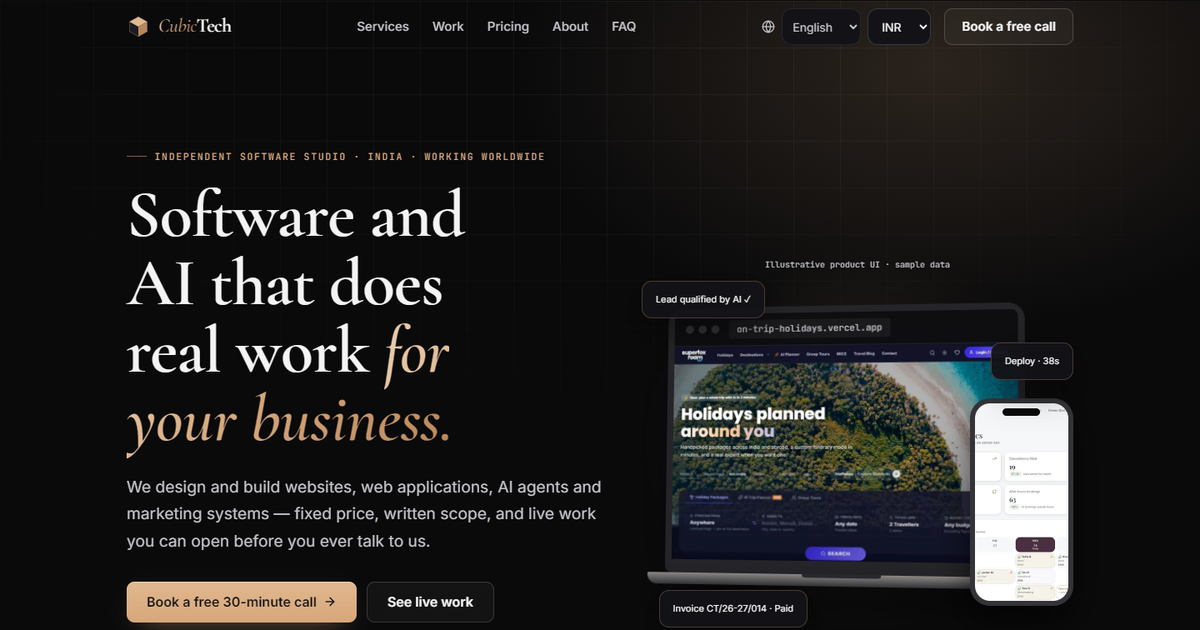
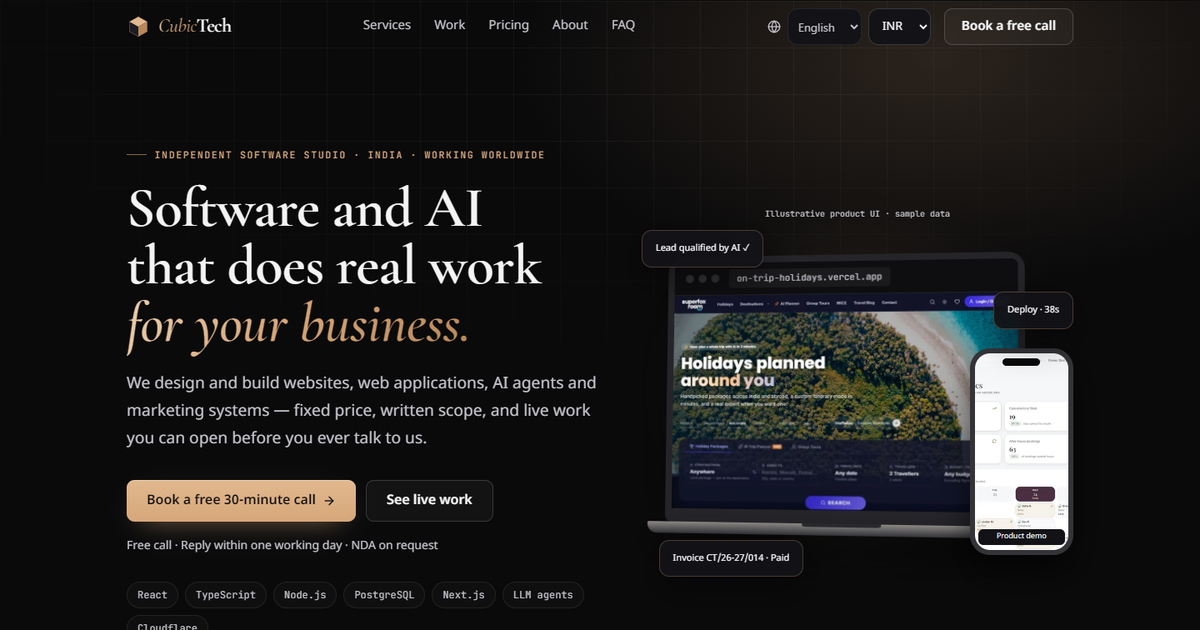
perf: verify accessible visuals and optimize first paint

diff --git a/client/public/fonts/fonts.css b/client/public/fonts/fonts.css
@@ -1,1 +1,5 @@
 @font-face { font-family: 'Cormorant Garamond'; font-style: italic; font-weight: 500; font-display: swap; src: url(/fonts/4ae4c5dabe8f4ecf.woff2) format('woff2'); unicode-range: U+0460-052F, U+1C80-1C8A, U+20B4, U+2DE0-2DFF, U+A640-A69F, U+FE2E-FE2F; } @font-face { font-family: 'Cormorant Garamond'; font-style: italic; font-weight: 500; font-display: swap; src: url(/fonts/954d638259f9bb13.woff2) format('woff2'); unicode-range: U+0301, U+0400-045F, U+0490-0491, U+04B0-04B1, U+2116; } @font-face { font-family: 'Cormorant Garamond'; font-style: italic; font-weight: 500; font-display: swap; src: url(/fonts/4c494e010d00e50c.woff2) format('woff2'); unicode-range: U+0102-0103, U+0110-0111, U+0128-0129, U+0168-0169, U+01A0-01A1, U+01AF-01B0, U+0300-0301, U+0303-0304, U+0308-0309, U+0323, U+0329, U+1EA0-1EF9, U+20AB; } @font-face { font-family: 'Cormorant Garamond'; font-style: italic; font-weight: 500; font-display: swap; src: url(/fonts/8fbaa36df2a892d0.woff2) format('woff2'); unicode-range: U+0100-02BA, U+02BD-02C5, U+02C7-02CC, U+02CE-02D7, U+02DD-02FF, U+0304, U+0308, U+0329, U+1D00-1DBF, U+1E00-1E9F, U+1EF2-1EFF, U+2020, U+20A0-20AB, U+20AD-20C4, U+2113, U+2C60-2C7F, U+A720-A7FF; } @font-face { font-family: 'Cormorant Garamond'; font-style: italic; font-weight: 500; font-display: swap; src: url(/fonts/291655adcb38b6b4.woff2) format('woff2'); unicode-range: U+0000-00FF, U+0131, U+0152-0153, U+02BB-02BC, U+02C6, U+02DA, U+02DC, U+0304, U+0308, U+0329, U+2000-206F, U+20AC, U+2122, U+2191, U+2193, U+2212, U+2215, U+FEFF, U+FFFD; } @font-face { font-family: 'Cormorant Garamond'; font-style: italic; font-weight: 600; font-display: swap; src: url(/fonts/4ae4c5dabe8f4ecf.woff2) format('woff2'); unicode-range: U+0460-052F, U+1C80-1C8A, U+20B4, U+2DE0-2DFF, U+A640-A69F, U+FE2E-FE2F; } @font-face { font-family: 'Cormorant Garamond'; font-style: italic; font-weight: 600; font-display: swap; src: url(/fonts/954d638259f9bb13.woff2) format('woff2'); unicode-range: U+0301, U+0400-045F, U+0490-0491, U+04B0-04B1, U+2116; } @font-face { font-family: 'Cormorant Garamond'; font-style: italic; font-weight: 600; font-display: swap; src: url(/fonts/4c494e010d00e50c.woff2) format('woff2'); unicode-range: U+0102-0103, U+0110-0111, U+0128-0129, U+0168-0169, U+01A0-01A1, U+01AF-01B0, U+0300-0301, U+0303-0304, U+0308-0309, U+0323, U+0329, U+1EA0-1EF9, U+20AB; } @font-face { font-family: 'Cormorant Garamond'; font-style: italic; font-weight: 600; font-display: swap; src: url(/fonts/8fbaa36df2a892d0.woff2) format('woff2'); unicode-range: U+0100-02BA, U+02BD-02C5, U+02C7-02CC, U+02CE-02D7, U+02DD-02FF, U+0304, U+0308, U+0329, U+1D00-1DBF, U+1E00-1E9F, U+1EF2-1EFF, U+2020, U+20A0-20AB, U+20AD-20C4, U+2113, U+2C60-2C7F, U+A720-A7FF; } @font-face { font-family: 'Cormorant Garamond'; font-style: italic; font-weight: 600; font-display: swap; src: url(/fonts/291655adcb38b6b4.woff2) format('woff2'); unicode-range: U+0000-00FF, U+0131, U+0152-0153, U+02BB-02BC, U+02C6, U+02DA, U+02DC, U+0304, U+0308, U+0329, U+2000-206F, U+20AC, U+2122, U+2191, U+2193, U+2212, U+2215, U+FEFF, U+FFFD; } @font-face { font-family: 'Cormorant Garamond'; font-style: normal; font-weight: 500; font-display: swap; src: url(/fonts/c4be89389609ffc2.woff2) format('woff2'); unicode-range: U+0460-052F, U+1C80-1C8A, U+20B4, U+2DE0-2DFF, U+A640-A69F, U+FE2E-FE2F; } @font-face { font-family: 'Cormorant Garamond'; font-style: normal; font-weight: 500; font-display: swap; src: url(/fonts/53563903266482ba.woff2) format('woff2'); unicode-range: U+0301, U+0400-045F, U+0490-0491, U+04B0-04B1, U+2116; } @font-face { font-family: 'Cormorant Garamond'; font-style: normal; font-weight: 500; font-display: swap; src: url(/fonts/c74911618d2d8311.woff2) format('woff2'); unicode-range: U+0102-0103, U+0110-0111, U+0128-0129, U+0168-0169, U+01A0-01A1, U+01AF-01B0, U+0300-0301, U+0303-0304, U+0308-0309, U+0323, U+0329, U+1EA0-1EF9, U+20AB; } @font-face { font-family: 'Cormorant Garamond'; font-style: normal; font-weight: 500; font-display: swap; src: url(/fonts/a55f75e9e7fa133c.woff2) format('woff2'); unicode-range: U+0100-02BA, U+02BD-02C5, U+02C7-02CC, U+02CE-02D7, U+02DD-02FF, U+0304, U+0308, U+0329, U+1D00-1DBF, U+1E00-1E9F, U+1EF2-1EFF, U+2020, U+20A0-20AB, U+20AD-20C4, U+2113, U+2C60-2C7F, U+A720-A7FF; } @font-face { font-family: 'Cormorant Garamond'; font-style: normal; font-weight: 500; font-display: swap; src: url(/fonts/d9ec821052ff94a7.woff2) format('woff2'); unicode-range: U+0000-00FF, U+0131, U+0152-0153, U+02BB-02BC, U+02C6, U+02DA, U+02DC, U+0304, U+0308, U+0329, U+2000-206F, U+20AC, U+2122, U+2191, U+2193, U+2212, U+2215, U+FEFF, U+FFFD; } @font-face { font-family: 'Cormorant Garamond'; font-style: normal; font-weight: 600; font-display: swap; src: url(/fonts/c4be89389609ffc2.woff2) format('woff2'); unicode-range: U+0460-052F, U+1C80-1C8A, U+20B4, U+2DE0-2DFF, U+A640-A69F, U+FE2E-FE2F; } @font-face { font-family: 'Cormorant Garamond'; font-style: normal; font-weight: 600; font-display: swap; src: url(/fonts/53563903266482ba.woff2) format('woff2'); unicode-range: U+0301, U+0400-045F, U+0490-0491, U+04B0-04B1, U+2116; } @font-face { font-family: 'Cormorant Garamond'; font-style: normal; font-weight: 600; font-display: swap; src: url(/fonts/c74911618d2d8311.woff2) format('woff2'); unicode-range: U+0102-0103, U+0110-0111, U+0128-0129, U+0168-0169, U+01A0-01A1, U+01AF-01B0, U+0300-0301, U+0303-0304, U+0308-0309, U+0323, U+0329, U+1EA0-1EF9, U+20AB; } @font-face { font-family: 'Cormorant Garamond'; font-style: normal; font-weight: 600; font-display: swap; src: url(/fonts/a55f75e9e7fa133c.woff2) format('woff2'); unicode-range: U+0100-02BA, U+02BD-02C5, U+02C7-02CC, U+02CE-02D7, U+02DD-02FF, U+0304, U+0308, U+0329, U+1D00-1DBF, U+1E00-1E9F, U+1EF2-1EFF, U+2020, U+20A0-20AB, U+20AD-20C4, U+2113, U+2C60-2C7F, U+A720-A7FF; } @font-face { font-family: 'Cormorant Garamond'; font-style: normal; font-weight: 600; font-display: swap; src: url(/fonts/d9ec821052ff94a7.woff2) format('woff2'); unicode-range: U+0000-00FF, U+0131, U+0152-0153, U+02BB-02BC, U+02C6, U+02DA, U+02DC, U+0304, U+0308, U+0329, U+2000-206F, U+20AC, U+2122, U+2191, U+2193, U+2212, U+2215, U+FEFF, U+FFFD; } @font-face { font-family: 'Cormorant Garamond'; font-style: normal; font-weight: 700; font-display: swap; src: url(/fonts/c4be89389609ffc2.woff2) format('woff2'); unicode-range: U+0460-052F, U+1C80-1C8A, U+20B4, U+2DE0-2DFF, U+A640-A69F, U+FE2E-FE2F; } @font-face { font-family: 'Cormorant Garamond'; font-style: normal; font-weight: 700; font-display: swap; src: url(/fonts/53563903266482ba.woff2) format('woff2'); unicode-range: U+0301, U+0400-045F, U+0490-0491, U+04B0-04B1, U+2116; } @font-face { font-family: 'Cormorant Garamond'; font-style: normal; font-weight: 700; font-display: swap; src: url(/fonts/c74911618d2d8311.woff2) format('woff2'); unicode-range: U+0102-0103, U+0110-0111, U+0128-0129, U+0168-0169, U+01A0-01A1, U+01AF-01B0, U+0300-0301, U+0303-0304, U+0308-0309, U+0323, U+0329, U+1EA0-1EF9, U+20AB; } @font-face { font-family: 'Cormorant Garamond'; font-style: normal; font-weight: 700; font-display: swap; src: url(/fonts/a55f75e9e7fa133c.woff2) format('woff2'); unicode-range: U+0100-02BA, U+02BD-02C5, U+02C7-02CC, U+02CE-02D7, U+02DD-02FF, U+0304, U+0308, U+0329, U+1D00-1DBF, U+1E00-1E9F, U+1EF2-1EFF, U+2020, U+20A0-20AB, U+20AD-20C4, U+2113, U+2C60-2C7F, U+A720-A7FF; } @font-face { font-family: 'Cormorant Garamond'; font-style: normal; font-weight: 700; font-display: swap; src: url(/fonts/d9ec821052ff94a7.woff2) format('woff2'); unicode-range: U+0000-00FF, U+0131, U+0152-0153, U+02BB-02BC, U+02C6, U+02DA, U+02DC, U+0304, U+0308, U+0329, U+2000-206F, U+20AC, U+2122, U+2191, U+2193, U+2212, U+2215, U+FEFF, U+FFFD; } @font-face { font-family: 'IBM Plex Sans Arabic'; font-style: normal; font-weight: 400; font-display: swap; src: url(/fonts/41f1e64ff8dbfd64.woff2) format('woff2'); unicode-range: U+0600-06FF, U+0750-077F, U+0870-0891, U+0897-08E1, U+08E3-08FF, U+200C-200E, U+2010-2011, U+204F, U+2E41, U+FB50-FDFF, U+FE70-FE74, U+FE76-FEFC, U+102E0-102FB, U+10E60-10E7E, U+10EC2-10EC7, U+10EC9-10EEE, U+10EF0-10EFF, U+1EE00-1EE03, U+1EE05-1EE1F, U+1EE21-1EE22, U+1EE24, U+1EE27, U+1EE29-1EE32, U+1EE34-1EE37, U+1EE39, U+1EE3B, U+1EE42, U+1EE47, U+1EE49, U+1EE4B, U+1EE4D-1EE4F, U+1EE51-1EE52, U+1EE54, U+1EE57, U+1EE59, U+1EE5B, U+1EE5D, U+1EE5F, U+1EE61-1EE62, U+1EE64, U+1EE67-1EE6A, U+1EE6C-1EE72, U+1EE74-1EE77, U+1EE79-1EE7C, U+1EE7E, U+1EE80-1EE89, U+1EE8B-1EE9B, U+1EEA1-1EEA3, U+1EEA5-1EEA9, U+1EEAB-1EEBB, U+1EEF0-1EEF1; } @font-face { font-family: 'IBM Plex Sans Arabic'; font-style: normal; font-weight: 400; font-display: swap; src: url(/fonts/3a67cf2b96d068f8.woff2) format('woff2'); unicode-range: U+0460-052F, U+1C80-1C8A, U+20B4, U+2DE0-2DFF, U+A640-A69F, U+FE2E-FE2F; } @font-face { font-family: 'IBM Plex Sans Arabic'; font-style: normal; font-weight: 400; font-display: swap; src: url(/fonts/e613bad269e158ab.woff2) format('woff2'); unicode-range: U+0100-02BA, U+02BD-02C5, U+02C7-02CC, U+02CE-02D7, U+02DD-02FF, U+0304, U+0308, U+0329, U+1D00-1DBF, U+1E00-1E9F, U+1EF2-1EFF, U+2020, U+20A0-20AB, U+20AD-20C4, U+2113, U+2C60-2C7F, U+A720-A7FF; } @font-face { font-family: 'IBM Plex Sans Arabic'; font-style: normal; font-weight: 400; font-display: swap; src: url(/fonts/686b114874710936.woff2) format('woff2'); unicode-range: U+0000-00FF, U+0131, U+0152-0153, U+02BB-02BC, U+02C6, U+02DA, U+02DC, U+0304, U+0308, U+0329, U+2000-206F, U+20AC, U+2122, U+2191, U+2193, U+2212, U+2215, U+FEFF, U+FFFD; } @font-face { font-family: 'IBM Plex Sans Arabic'; font-style: normal; font-weight: 600; font-display: swap; src: url(/fonts/50d246d60cbee4fd.woff2) format('woff2'); unicode-range: U+0600-06FF, U+0750-077F, U+0870-0891, U+0897-08E1, U+08E3-08FF, U+200C-200E, U+2010-2011, U+204F, U+2E41, U+FB50-FDFF, U+FE70-FE74, U+FE76-FEFC, U+102E0-102FB, U+10E60-10E7E, U+10EC2-10EC7, U+10EC9-10EEE, U+10EF0-10EFF, U+1EE00-1EE03, U+1EE05-1EE1F, U+1EE21-1EE22, U+1EE24, U+1EE27, U+1EE29-1EE32, U+1EE34-1EE37, U+1EE39, U+1EE3B, U+1EE42, U+1EE47, U+1EE49, U+1EE4B, U+1EE4D-1EE4F, U+1EE51-1EE52, U+1EE54, U+1EE57, U+1EE59, U+1EE5B, U+1EE5D, U+1EE5F, U+1EE61-1EE62, U+1EE64, U+1EE67-1EE6A, U+1EE6C-1EE72, U+1EE74-1EE77, U+1EE79-1EE7C, U+1EE7E, U+1EE80-1EE89, U+1EE8B-1EE9B, U+1EEA1-1EEA3, U+1EEA5-1EEA9, U+1EEAB-1EEBB, U+1EEF0-1EEF1; } @font-face { font-family: 'IBM Plex Sans Arabic'; font-style: normal; font-weight: 600; font-display: swap; src: url(/fonts/468493a3b9dd5289.woff2) format('woff2'); unicode-range: U+0460-052F, U+1C80-1C8A, U+20B4, U+2DE0-2DFF, U+A640-A69F, U+FE2E-FE2F; } @font-face { font-family: 'IBM Plex Sans Arabic'; font-style: normal; font-weight: 600; font-display: swap; src: url(/fonts/0930d8c09d9997dc.woff2) format('woff2'); unicode-range: U+0100-02BA, U+02BD-02C5, U+02C7-02CC, U+02CE-02D7, U+02DD-02FF, U+0304, U+0308, U+0329, U+1D00-1DBF, U+1E00-1E9F, U+1EF2-1EFF, U+2020, U+20A0-20AB, U+20AD-20C4, U+2113, U+2C60-2C7F, U+A720-A7FF; } @font-face { font-family: 'IBM Plex Sans Arabic'; font-style: normal; font-weight: 600; font-display: swap; src: url(/fonts/632518d8547284aa.woff2) format('woff2'); unicode-range: U+0000-00FF, U+0131, U+0152-0153, U+02BB-02BC, U+02C6, U+02DA, U+02DC, U+0304, U+0308, U+0329, U+2000-206F, U+20AC, U+2122, U+2191, U+2193, U+2212, U+2215, U+FEFF, U+FFFD; } @font-face { font-family: 'IBM Plex Sans Arabic'; font-style: normal; font-weight: 700; font-display: swap; src: url(/fonts/bf43e79904fc533e.woff2) format('woff2'); unicode-range: U+0600-06FF, U+0750-077F, U+0870-0891, U+0897-08E1, U+08E3-08FF, U+200C-200E, U+2010-2011, U+204F, U+2E41, U+FB50-FDFF, U+FE70-FE74, U+FE76-FEFC, U+102E0-102FB, U+10E60-10E7E, U+10EC2-10EC7, U+10EC9-10EEE, U+10EF0-10EFF, U+1EE00-1EE03, U+1EE05-1EE1F, U+1EE21-1EE22, U+1EE24, U+1EE27, U+1EE29-1EE32, U+1EE34-1EE37, U+1EE39, U+1EE3B, U+1EE42, U+1EE47, U+1EE49, U+1EE4B, U+1EE4D-1EE4F, U+1EE51-1EE52, U+1EE54, U+1EE57, U+1EE59, U+1EE5B, U+1EE5D, U+1EE5F, U+1EE61-1EE62, U+1EE64, U+1EE67-1EE6A, U+1EE6C-1EE72, U+1EE74-1EE77, U+1EE79-1EE7C, U+1EE7E, U+1EE80-1EE89, U+1EE8B-1EE9B, U+1EEA1-1EEA3, U+1EEA5-1EEA9, U+1EEAB-1EEBB, U+1EEF0-1EEF1; } @font-face { font-family: 'IBM Plex Sans Arabic'; font-style: normal; font-weight: 700; font-display: swap; src: url(/fonts/ce013ebebfbf3227.woff2) format('woff2'); unicode-range: U+0460-052F, U+1C80-1C8A, U+20B4, U+2DE0-2DFF, U+A640-A69F, U+FE2E-FE2F; } @font-face { font-family: 'IBM Plex Sans Arabic'; font-style: normal; font-weight: 700; font-display: swap; src: url(/fonts/238ad63b7ac80140.woff2) format('woff2'); unicode-range: U+0100-02BA, U+02BD-02C5, U+02C7-02CC, U+02CE-02D7, U+02DD-02FF, U+0304, U+0308, U+0329, U+1D00-1DBF, U+1E00-1E9F, U+1EF2-1EFF, U+2020, U+20A0-20AB, U+20AD-20C4, U+2113, U+2C60-2C7F, U+A720-A7FF; } @font-face { font-family: 'IBM Plex Sans Arabic'; font-style: normal; font-weight: 700; font-display: swap; src: url(/fonts/6f58c7351ca14ecf.woff2) format('woff2'); unicode-range: U+0000-00FF, U+0131, U+0152-0153, U+02BB-02BC, U+02C6, U+02DA, U+02DC, U+0304, U+0308, U+0329, U+2000-206F, U+20AC, U+2122, U+2191, U+2193, U+2212, U+2215, U+FEFF, U+FFFD; } @font-face { font-family: 'Inter'; font-style: normal; font-weight: 400; font-display: swap; src: url(/fonts/95b9ea830580b57e.woff2) format('woff2'); unicode-range: U+0460-052F, U+1C80-1C8A, U+20B4, U+2DE0-2DFF, U+A640-A69F, U+FE2E-FE2F; } @font-face { font-family: 'Inter'; font-style: normal; font-weight: 400; font-display: swap; src: url(/fonts/1e8edb2fc100b7f7.woff2) format('woff2'); unicode-range: U+0301, U+0400-045F, U+0490-0491, U+04B0-04B1, U+2116; } @font-face { font-family: 'Inter'; font-style: normal; font-weight: 400; font-display: swap; src: url(/fonts/6d0a674525fee3dd.woff2) format('woff2'); unicode-range: U+1F00-1FFF; } @font-face { font-family: 'Inter'; font-style: normal; font-weight: 400; font-display: swap; src: url(/fonts/dbc85b0dfbaaa315.woff2) format('woff2'); unicode-range: U+0370-0377, U+037A-037F, U+0384-038A, U+038C, U+038E-03A1, U+03A3-03FF; } @font-face { font-family: 'Inter'; font-style: normal; font-weight: 400; font-display: swap; src: url(/fonts/4c2d4a14f23a8ed5.woff2) format('woff2'); unicode-range: U+0102-0103, U+0110-0111, U+0128-0129, U+0168-0169, U+01A0-01A1, U+01AF-01B0, U+0300-0301, U+0303-0304, U+0308-0309, U+0323, U+0329, U+1EA0-1EF9, U+20AB; } @font-face { font-family: 'Inter'; font-style: normal; font-weight: 400; font-display: swap; src: url(/fonts/a9d11b3ffe7aa537.woff2) format('woff2'); unicode-range: U+0100-02BA, U+02BD-02C5, U+02C7-02CC, U+02CE-02D7, U+02DD-02FF, U+0304, U+0308, U+0329, U+1D00-1DBF, U+1E00-1E9F, U+1EF2-1EFF, U+2020, U+20A0-20AB, U+20AD-20C4, U+2113, U+2C60-2C7F, U+A720-A7FF; } @font-face { font-family: 'Inter'; font-style: normal; font-weight: 400; font-display: swap; src: url(/fonts/e3237528af752eed.woff2) format('woff2'); unicode-range: U+0000-00FF, U+0131, U+0152-0153, U+02BB-02BC, U+02C6, U+02DA, U+02DC, U+0304, U+0308, U+0329, U+2000-206F, U+20AC, U+2122, U+2191, U+2193, U+2212, U+2215, U+FEFF, U+FFFD; } @font-face { font-family: 'Inter'; font-style: normal; font-weight: 500; font-display: swap; src: url(/fonts/95b9ea830580b57e.woff2) format('woff2'); unicode-range: U+0460-052F, U+1C80-1C8A, U+20B4, U+2DE0-2DFF, U+A640-A69F, U+FE2E-FE2F; } @font-face { font-family: 'Inter'; font-style: normal; font-weight: 500; font-display: swap; src: url(/fonts/1e8edb2fc100b7f7.woff2) format('woff2'); unicode-range: U+0301, U+0400-045F, U+0490-0491, U+04B0-04B1, U+2116; } @font-face { font-family: 'Inter'; font-style: normal; font-weight: 500; font-display: swap; src: url(/fonts/6d0a674525fee3dd.woff2) format('woff2'); unicode-range: U+1F00-1FFF; } @font-face { font-family: 'Inter'; font-style: normal; font-weight: 500; font-display: swap; src: url(/fonts/dbc85b0dfbaaa315.woff2) format('woff2'); unicode-range: U+0370-0377, U+037A-037F, U+0384-038A, U+038C, U+038E-03A1, U+03A3-03FF; } @font-face { font-family: 'Inter'; font-style: normal; font-weight: 500; font-display: swap; src: url(/fonts/4c2d4a14f23a8ed5.woff2) format('woff2'); unicode-range: U+0102-0103, U+0110-0111, U+0128-0129, U+0168-0169, U+01A0-01A1, U+01AF-01B0, U+0300-0301, U+0303-0304, U+0308-0309, U+0323, U+0329, U+1EA0-1EF9, U+20AB; } @font-face { font-family: 'Inter'; font-style: normal; font-weight: 500; font-display: swap; src: url(/fonts/a9d11b3ffe7aa537.woff2) format('woff2'); unicode-range: U+0100-02BA, U+02BD-02C5, U+02C7-02CC, U+02CE-02D7, U+02DD-02FF, U+0304, U+0308, U+0329, U+1D00-1DBF, U+1E00-1E9F, U+1EF2-1EFF, U+2020, U+20A0-20AB, U+20AD-20C4, U+2113, U+2C60-2C7F, U+A720-A7FF; } @font-face { font-family: 'Inter'; font-style: normal; font-weight: 500; font-display: swap; src: url(/fonts/e3237528af752eed.woff2) format('woff2'); unicode-range: U+0000-00FF, U+0131, U+0152-0153, U+02BB-02BC, U+02C6, U+02DA, U+02DC, U+0304, U+0308, U+0329, U+2000-206F, U+20AC, U+2122, U+2191, U+2193, U+2212, U+2215, U+FEFF, U+FFFD; } @font-face { font-family: 'Inter'; font-style: normal; font-weight: 600; font-display: swap; src: url(/fonts/95b9ea830580b57e.woff2) format('woff2'); unicode-range: U+0460-052F, U+1C80-1C8A, U+20B4, U+2DE0-2DFF, U+A640-A69F, U+FE2E-FE2F; } @font-face { font-family: 'Inter'; font-style: normal; font-weight: 600; font-display: swap; src: url(/fonts/1e8edb2fc100b7f7.woff2) format('woff2'); unicode-range: U+0301, U+0400-045F, U+0490-0491, U+04B0-04B1, U+2116; } @font-face { font-family: 'Inter'; font-style: normal; font-weight: 600; font-display: swap; src: url(/fonts/6d0a674525fee3dd.woff2) format('woff2'); unicode-range: U+1F00-1FFF; } @font-face { font-family: 'Inter'; font-style: normal; font-weight: 600; font-display: swap; src: url(/fonts/dbc85b0dfbaaa315.woff2) format('woff2'); unicode-range: U+0370-0377, U+037A-037F, U+0384-038A, U+038C, U+038E-03A1, U+03A3-03FF; } @font-face { font-family: 'Inter'; font-style: normal; font-weight: 600; font-display: swap; src: url(/fonts/4c2d4a14f23a8ed5.woff2) format('woff2'); unicode-range: U+0102-0103, U+0110-0111, U+0128-0129, U+0168-0169, U+01A0-01A1, U+01AF-01B0, U+0300-0301, U+0303-0304, U+0308-0309, U+0323, U+0329, U+1EA0-1EF9, U+20AB; } @font-face { font-family: 'Inter'; font-style: normal; font-weight: 600; font-display: swap; src: url(/fonts/a9d11b3ffe7aa537.woff2) format('woff2'); unicode-range: U+0100-02BA, U+02BD-02C5, U+02C7-02CC, U+02CE-02D7, U+02DD-02FF, U+0304, U+0308, U+0329, U+1D00-1DBF, U+1E00-1E9F, U+1EF2-1EFF, U+2020, U+20A0-20AB, U+20AD-20C4, U+2113, U+2C60-2C7F, U+A720-A7FF; } @font-face { font-family: 'Inter'; font-style: normal; font-weight: 600; font-display: swap; src: url(/fonts/e3237528af752eed.woff2) format('woff2'); unicode-range: U+0000-00FF, U+0131, U+0152-0153, U+02BB-02BC, U+02C6, U+02DA, U+02DC, U+0304, U+0308, U+0329, U+2000-206F, U+20AC, U+2122, U+2191, U+2193, U+2212, U+2215, U+FEFF, U+FFFD; } @font-face { font-family: 'Inter'; font-style: normal; font-weight: 700; font-display: swap; src: url(/fonts/95b9ea830580b57e.woff2) format('woff2'); unicode-range: U+0460-052F, U+1C80-1C8A, U+20B4, U+2DE0-2DFF, U+A640-A69F, U+FE2E-FE2F; } @font-face { font-family: 'Inter'; font-style: normal; font-weight: 700; font-display: swap; src: url(/fonts/1e8edb2fc100b7f7.woff2) format('woff2'); unicode-range: U+0301, U+0400-045F, U+0490-0491, U+04B0-04B1, U+2116; } @font-face { font-family: 'Inter'; font-style: normal; font-weight: 700; font-display: swap; src: url(/fonts/6d0a674525fee3dd.woff2) format('woff2'); unicode-range: U+1F00-1FFF; } @font-face { font-family: 'Inter'; font-style: normal; font-weight: 700; font-display: swap; src: url(/fonts/dbc85b0dfbaaa315.woff2) format('woff2'); unicode-range: U+0370-0377, U+037A-037F, U+0384-038A, U+038C, U+038E-03A1, U+03A3-03FF; } @font-face { font-family: 'Inter'; font-style: normal; font-weight: 700; font-display: swap; src: url(/fonts/4c2d4a14f23a8ed5.woff2) format('woff2'); unicode-range: U+0102-0103, U+0110-0111, U+0128-0129, U+0168-0169, U+01A0-01A1, U+01AF-01B0, U+0300-0301, U+0303-0304, U+0308-0309, U+0323, U+0329, U+1EA0-1EF9, U+20AB; } @font-face { font-family: 'Inter'; font-style: normal; font-weight: 700; font-display: swap; src: url(/fonts/a9d11b3ffe7aa537.woff2) format('woff2'); unicode-range: U+0100-02BA, U+02BD-02C5, U+02C7-02CC, U+02CE-02D7, U+02DD-02FF, U+0304, U+0308, U+0329, U+1D00-1DBF, U+1E00-1E9F, U+1EF2-1EFF, U+2020, U+20A0-20AB, U+20AD-20C4, U+2113, U+2C60-2C7F, U+A720-A7FF; } @font-face { font-family: 'Inter'; font-style: normal; font-weight: 700; font-display: swap; src: url(/fonts/e3237528af752eed.woff2) format('woff2'); unicode-range: U+0000-00FF, U+0131, U+0152-0153, U+02BB-02BC, U+02C6, U+02DA, U+02DC, U+0304, U+0308, U+0329, U+2000-206F, U+20AC, U+2122, U+2191, U+2193, U+2212, U+2215, U+FEFF, U+FFFD; } @font-face { font-family: 'JetBrains Mono'; font-style: normal; font-weight: 400; font-display: swap; src: url(/fonts/6b5e37b52d26eeac.woff2) format('woff2'); unicode-range: U+0460-052F, U+1C80-1C8A, U+20B4, U+2DE0-2DFF, U+A640-A69F, U+FE2E-FE2F; } @font-face { font-family: 'JetBrains Mono'; font-style: normal; font-weight: 400; font-display: swap; src: url(/fonts/eb83d8d40af4411f.woff2) format('woff2'); unicode-range: U+0301, U+0400-045F, U+0490-0491, U+04B0-04B1, U+2116; } @font-face { font-family: 'JetBrains Mono'; font-style: normal; font-weight: 400; font-display: swap; src: url(/fonts/99e400330f36ae77.woff2) format('woff2'); unicode-range: U+0370-0377, U+037A-037F, U+0384-038A, U+038C, U+038E-03A1, U+03A3-03FF; } @font-face { font-family: 'JetBrains Mono'; font-style: normal; font-weight: 400; font-display: swap; src: url(/fonts/c4064400db3750ce.woff2) format('woff2'); unicode-range: U+0102-0103, U+0110-0111, U+0128-0129, U+0168-0169, U+01A0-01A1, U+01AF-01B0, U+0300-0301, U+0303-0304, U+0308-0309, U+0323, U+0329, U+1EA0-1EF9, U+20AB; } @font-face { font-family: 'JetBrains Mono'; font-style: normal; font-weight: 400; font-display: swap; src: url(/fonts/b19c2080652a3c2b.woff2) format('woff2'); unicode-range: U+0100-02BA, U+02BD-02C5, U+02C7-02CC, U+02CE-02D7, U+02DD-02FF, U+0304, U+0308, U+0329, U+1D00-1DBF, U+1E00-1E9F, U+1EF2-1EFF, U+2020, U+20A0-20AB, U+20AD-20C4, U+2113, U+2C60-2C7F, U+A720-A7FF; } @font-face { font-family: 'JetBrains Mono'; font-style: normal; font-weight: 400; font-display: swap; src: url(/fonts/cc27b30471250057.woff2) format('woff2'); unicode-range: U+0000-00FF, U+0131, U+0152-0153, U+02BB-02BC, U+02C6, U+02DA, U+02DC, U+0304, U+0308, U+0329, U+2000-206F, U+20AC, U+2122, U+2191, U+2193, U+2212, U+2215, U+FEFF, U+FFFD; } @font-face { font-family: 'JetBrains Mono'; font-style: normal; font-weight: 500; font-display: swap; src: url(/fonts/6b5e37b52d26eeac.woff2) format('woff2'); unicode-range: U+0460-052F, U+1C80-1C8A, U+20B4, U+2DE0-2DFF, U+A640-A69F, U+FE2E-FE2F; } @font-face { font-family: 'JetBrains Mono'; font-style: normal; font-weight: 500; font-display: swap; src: url(/fonts/eb83d8d40af4411f.woff2) format('woff2'); unicode-range: U+0301, U+0400-045F, U+0490-0491, U+04B0-04B1, U+2116; } @font-face { font-family: 'JetBrains Mono'; font-style: normal; font-weight: 500; font-display: swap; src: url(/fonts/99e400330f36ae77.woff2) format('woff2'); unicode-range: U+0370-0377, U+037A-037F, U+0384-038A, U+038C, U+038E-03A1, U+03A3-03FF; } @font-face { font-family: 'JetBrains Mono'; font-style: normal; font-weight: 500; font-display: swap; src: url(/fonts/c4064400db3750ce.woff2) format('woff2'); unicode-range: U+0102-0103, U+0110-0111, U+0128-0129, U+0168-0169, U+01A0-01A1, U+01AF-01B0, U+0300-0301, U+0303-0304, U+0308-0309, U+0323, U+0329, U+1EA0-1EF9, U+20AB; } @font-face { font-family: 'JetBrains Mono'; font-style: normal; font-weight: 500; font-display: swap; src: url(/fonts/b19c2080652a3c2b.woff2) format('woff2'); unicode-range: U+0100-02BA, U+02BD-02C5, U+02C7-02CC, U+02CE-02D7, U+02DD-02FF, U+0304, U+0308, U+0329, U+1D00-1DBF, U+1E00-1E9F, U+1EF2-1EFF, U+2020, U+20A0-20AB, U+20AD-20C4, U+2113, U+2C60-2C7F, U+A720-A7FF; } @font-face { font-family: 'JetBrains Mono'; font-style: normal; font-weight: 500; font-display: swap; src: url(/fonts/cc27b30471250057.woff2) format('woff2'); unicode-range: U+0000-00FF, U+0131, U+0152-0153, U+02BB-02BC, U+02C6, U+02DA, U+02DC, U+0304, U+0308, U+0329, U+2000-206F, U+20AC, U+2122, U+2191, U+2193, U+2212, U+2215, U+FEFF, U+FFFD; } @font-face { font-family: 'JetBrains Mono'; font-style: normal; font-weight: 600; font-display: swap; src: url(/fonts/6b5e37b52d26eeac.woff2) format('woff2'); unicode-range: U+0460-052F, U+1C80-1C8A, U+20B4, U+2DE0-2DFF, U+A640-A69F, U+FE2E-FE2F; } @font-face { font-family: 'JetBrains Mono'; font-style: normal; font-weight: 600; font-display: swap; src: url(/fonts/eb83d8d40af4411f.woff2) format('woff2'); unicode-range: U+0301, U+0400-045F, U+0490-0491, U+04B0-04B1, U+2116; } @font-face { font-family: 'JetBrains Mono'; font-style: normal; font-weight: 600; font-display: swap; src: url(/fonts/99e400330f36ae77.woff2) format('woff2'); unicode-range: U+0370-0377, U+037A-037F, U+0384-038A, U+038C, U+038E-03A1, U+03A3-03FF; } @font-face { font-family: 'JetBrains Mono'; font-style: normal; font-weight: 600; font-display: swap; src: url(/fonts/c4064400db3750ce.woff2) format('woff2'); unicode-range: U+0102-0103, U+0110-0111, U+0128-0129, U+0168-0169, U+01A0-01A1, U+01AF-01B0, U+0300-0301, U+0303-0304, U+0308-0309, U+0323, U+0329, U+1EA0-1EF9, U+20AB; } @font-face { font-family: 'JetBrains Mono'; font-style: normal; font-weight: 600; font-display: swap; src: url(/fonts/b19c2080652a3c2b.woff2) format('woff2'); unicode-range: U+0100-02BA, U+02BD-02C5, U+02C7-02CC, U+02CE-02D7, U+02DD-02FF, U+0304, U+0308, U+0329, U+1D00-1DBF, U+1E00-1E9F, U+1EF2-1EFF, U+2020, U+20A0-20AB, U+20AD-20C4, U+2113, U+2C60-2C7F, U+A720-A7FF; } @font-face { font-family: 'JetBrains Mono'; font-style: normal; font-weight: 600; font-display: swap; src: url(/fonts/cc27b30471250057.woff2) format('woff2'); unicode-range: U+0000-00FF, U+0131, U+0152-0153, U+02BB-02BC, U+02C6, U+02DA, U+02DC, U+0304, U+0308, U+0329, U+2000-206F, U+20AC, U+2122, U+2191, U+2193, U+2212, U+2215, U+FEFF, U+FFFD; } @font-face { font-family: 'Noto Sans Devanagari'; font-style: normal; font-weight: 400; font-stretch: 100%; font-display: swap; src: url(/fonts/32aa484b7f2341a2.woff2) format('woff2'); unicode-range: U+0900-097F, U+1CD0-1CF4, U+1CF7-1CF9, U+200C-200D, U+20A8, U+20B9, U+20F0, U+25CC, U+A830-A839, U+A8E0-A8FF, U+11B00-11B0A; } @font-face { font-family: 'Noto Sans Devanagari'; font-style: normal; font-weight: 400; font-stretch: 100%; font-display: swap; src: url(/fonts/e8febb32684ab300.woff2) format('woff2'); unicode-range: U+0100-02BA, U+02BD-02C5, U+02C7-02CC, U+02CE-02D7, U+02DD-02FF, U+0304, U+0308, U+0329, U+1D00-1DBF, U+1E00-1E9F, U+1EF2-1EFF, U+2020, U+20A0-20AB, U+20AD-20C4, U+2113, U+2C60-2C7F, U+A720-A7FF; } @font-face { font-family: 'Noto Sans Devanagari'; font-style: normal; font-weight: 400; font-stretch: 100%; font-display: swap; src: url(/fonts/099dc5879c36abf8.woff2) format('woff2'); unicode-range: U+0000-00FF, U+0131, U+0152-0153, U+02BB-02BC, U+02C6, U+02DA, U+02DC, U+0304, U+0308, U+0329, U+2000-206F, U+20AC, U+2122, U+2191, U+2193, U+2212, U+2215, U+FEFF, U+FFFD; } @font-face { font-family: 'Noto Sans Devanagari'; font-style: normal; font-weight: 600; font-stretch: 100%; font-display: swap; src: url(/fonts/32aa484b7f2341a2.woff2) format('woff2'); unicode-range: U+0900-097F, U+1CD0-1CF4, U+1CF7-1CF9, U+200C-200D, U+20A8, U+20B9, U+20F0, U+25CC, U+A830-A839, U+A8E0-A8FF, U+11B00-11B0A; } @font-face { font-family: 'Noto Sans Devanagari'; font-style: normal; font-weight: 600; font-stretch: 100%; font-display: swap; src: url(/fonts/e8febb32684ab300.woff2) format('woff2'); unicode-range: U+0100-02BA, U+02BD-02C5, U+02C7-02CC, U+02CE-02D7, U+02DD-02FF, U+0304, U+0308, U+0329, U+1D00-1DBF, U+1E00-1E9F, U+1EF2-1EFF, U+2020, U+20A0-20AB, U+20AD-20C4, U+2113, U+2C60-2C7F, U+A720-A7FF; } @font-face { font-family: 'Noto Sans Devanagari'; font-style: normal; font-weight: 600; font-stretch: 100%; font-display: swap; src: url(/fonts/099dc5879c36abf8.woff2) format('woff2'); unicode-range: U+0000-00FF, U+0131, U+0152-0153, U+02BB-02BC, U+02C6, U+02DA, U+02DC, U+0304, U+0308, U+0329, U+2000-206F, U+20AC, U+2122, U+2191, U+2193, U+2212, U+2215, U+FEFF, U+FFFD; } @font-face { font-family: 'Noto Sans Devanagari'; font-style: normal; font-weight: 700; font-stretch: 100%; font-display: swap; src: url(/fonts/32aa484b7f2341a2.woff2) format('woff2'); unicode-range: U+0900-097F, U+1CD0-1CF4, U+1CF7-1CF9, U+200C-200D, U+20A8, U+20B9, U+20F0, U+25CC, U+A830-A839, U+A8E0-A8FF, U+11B00-11B0A; } @font-face { font-family: 'Noto Sans Devanagari'; font-style: normal; font-weight: 700; font-stretch: 100%; font-display: swap; src: url(/fonts/e8febb32684ab300.woff2) format('woff2'); unicode-range: U+0100-02BA, U+02BD-02C5, U+02C7-02CC, U+02CE-02D7, U+02DD-02FF, U+0304, U+0308, U+0329, U+1D00-1DBF, U+1E00-1E9F, U+1EF2-1EFF, U+2020, U+20A0-20AB, U+20AD-20C4, U+2113, U+2C60-2C7F, U+A720-A7FF; } @font-face { font-family: 'Noto Sans Devanagari'; font-style: normal; font-weight: 700; font-stretch: 100%; font-display: swap; src: url(/fonts/099dc5879c36abf8.woff2) format('woff2'); unicode-range: U+0000-00FF, U+0131, U+0152-0153, U+02BB-02BC, U+02C6, U+02DA, U+02DC, U+0304, U+0308, U+0329, U+2000-206F, U+20AC, U+2122, U+2191, U+2193, U+2212, U+2215, U+FEFF, U+FFFD; }
+
+@font-face { font-family: 'Inter'; font-style: normal; font-weight: 400 700; font-display: swap; src: url(/fonts/inter-rupee-2d8b0beb55.woff2) format('woff2'); unicode-range: U+20b9; unicode-range: U+20B9; }
+
+@font-face { font-family: 'Cormorant Garamond'; font-style: italic; font-weight: 600; font-display: swap; src: url(/fonts/display-cf5f5ed194.woff2) format('woff2'); unicode-range: U+20, U+22, U+25-29, U+2b-5d, U+61-7e, U+ab, U+b7, U+bb, U+c0-c2, U+c4, U+c7-cf, U+d2-d4, U+d6, U+d9-dd, U+df-e2, U+e4, U+e7-ef, U+f2-f4, U+f6, U+f9-fd, U+ff, U+106-109, U+11c-11d, U+122-125, U+134-137, U+139-13c, U+143-146, U+154-157, U+15a-15f, U+162-163, U+174-17a, U+1d7-1d8, U+1db-1dc, U+1f4-1f5, U+1f8-1f9, U+228-229, U+300-302, U+308, U+327, U+1e08-1e09, U+1e10-1e11, U+1e26-1e29, U+1e2e-1e31, U+1e3e-1e3f, U+1e54-1e55, U+1e80-1e85, U+1e8c-1e8d, U+1e90-1e91, U+1e97, U+1ea4-1ea7, U+1ebe-1ec1, U+1ed0-1ed3, U+1ef2-1ef3, U+2013-2014, U+2019, U+201c-201d, U+2026; unicode-range: U+0020,U+0022,U+0025,U+0026,U+0027,U+0028,U+0029,U+002B,U+002C,U+002D,U+002E,U+002F,U+0030,U+0031,U+0032,U+0033,U+0034,U+0035,U+0036,U+0037,U+0038,U+0039,U+003A,U+003B,U+003C,U+003D,U+003E,U+003F,U+0040,U+0041,U+0042,U+0043,U+0044,U+0045,U+0046,U+0047,U+0048,U+0049,U+004A,U+004B,U+004C,U+004D,U+004E,U+004F,U+0050,U+0051,U+0052,U+0053,U+0054,U+0055,U+0056,U+0057,U+0058,U+0059,U+005A,U+005B,U+005C,U+005D,U+0061,U+0062,U+0063,U+0064,U+0065,U+0066,U+0067,U+0068,U+0069,U+006A,U+006B,U+006C,U+006D,U+006E,U+006F,U+0070,U+0071,U+0072,U+0073,U+0074,U+0075,U+0076,U+0077,U+0078,U+0079,U+007A,U+007B,U+007C,U+007D,U+007E,U+00AB,U+00B7,U+00BB,U+00C0,U+00C4,U+00C9,U+00D6,U+00DC,U+00DF,U+00E0,U+00E2,U+00E4,U+00E7,U+00E8,U+00E9,U+00EA,U+00EE,U+00F4,U+00F6,U+00F9,U+00FB,U+00FC,U+2013,U+2014,U+2019,U+201C,U+201D,U+2026; } @font-face { font-family: 'Cormorant Garamond'; font-style: normal; font-weight: 600; font-display: swap; src: url(/fonts/display-25b406678a.woff2) format('woff2'); unicode-range: U+20, U+22, U+25-29, U+2b-5d, U+61-7e, U+ab, U+b7, U+bb, U+c0-c2, U+c4, U+c7-cf, U+d2-d4, U+d6, U+d9-dd, U+df-e2, U+e4, U+e7-ef, U+f2-f4, U+f6, U+f9-fd, U+ff, U+106-109, U+11c-11d, U+122-125, U+134-137, U+139-13c, U+143-146, U+154-157, U+15a-15f, U+162-163, U+174-17a, U+1d7-1d8, U+1db-1dc, U+1f4-1f5, U+1f8-1f9, U+228-229, U+300-302, U+308, U+327, U+1e08-1e09, U+1e10-1e11, U+1e26-1e29, U+1e2e-1e31, U+1e3e-1e3f, U+1e54-1e55, U+1e80-1e85, U+1e8c-1e8d, U+1e90-1e91, U+1e97, U+1ea4-1ea7, U+1ebe-1ec1, U+1ed0-1ed3, U+1ef2-1ef3, U+2013-2014, U+2019, U+201c-201d, U+2026; unicode-range: U+0020,U+0022,U+0025,U+0026,U+0027,U+0028,U+0029,U+002B,U+002C,U+002D,U+002E,U+002F,U+0030,U+0031,U+0032,U+0033,U+0034,U+0035,U+0036,U+0037,U+0038,U+0039,U+003A,U+003B,U+003C,U+003D,U+003E,U+003F,U+0040,U+0041,U+0042,U+0043,U+0044,U+0045,U+0046,U+0047,U+0048,U+0049,U+004A,U+004B,U+004C,U+004D,U+004E,U+004F,U+0050,U+0051,U+0052,U+0053,U+0054,U+0055,U+0056,U+0057,U+0058,U+0059,U+005A,U+005B,U+005C,U+005D,U+0061,U+0062,U+0063,U+0064,U+0065,U+0066,U+0067,U+0068,U+0069,U+006A,U+006B,U+006C,U+006D,U+006E,U+006F,U+0070,U+0071,U+0072,U+0073,U+0074,U+0075,U+0076,U+0077,U+0078,U+0079,U+007A,U+007B,U+007C,U+007D,U+007E,U+00AB,U+00B7,U+00BB,U+00C0,U+00C4,U+00C9,U+00D6,U+00DC,U+00DF,U+00E0,U+00E2,U+00E4,U+00E7,U+00E8,U+00E9,U+00EA,U+00EE,U+00F4,U+00F6,U+00F9,U+00FB,U+00FC,U+2013,U+2014,U+2019,U+201C,U+201D,U+2026; }

diff --git a/client/src/styles/visuals.css b/client/src/styles/visuals.css
@@ -89,9 +89,29 @@
 .visual-footer::before { content:""; position:absolute; top:0; inset-inline:0; height:1px; background:linear-gradient(90deg,transparent,var(--brand),transparent); }
 .footer-watermark { position:absolute; bottom:40px; inset-inline:0; text-align:center; font-family:var(--font-display); font-size:clamp(80px,20vw,280px); line-height:1; color:var(--t-primary); opacity:.035; pointer-events:none; }
 @media(prefers-reduced-motion:no-preference) {
- .is-revealed { animation:visual-arrive .65s var(--ease-out) both; animation-delay:var(--reveal-delay,0ms); }
- .process-steps.is-revealed > li::after { animation:timeline-grow 1s ease both; transform-origin:0 50%; }
- :dir(rtl) .process-steps.is-revealed > li::after { transform-origin:100% 50%; }
+ .visual-ready .card, .visual-ready .visual-project { animation:visual-arrive .65s var(--ease-out) both; animation-delay:var(--reveal-delay,0ms); }
+ .visual-ready .process-steps > li::after { animation:timeline-grow 1s ease both; transform-origin:0 50%; }
+ :dir(rtl) .visual-ready .process-steps > li::after { transform-origin:100% 50%; }
 }
 @keyframes visual-arrive { from { opacity:.85; transform:translateY(16px); } to { opacity:1; transform:none; } }
 @keyframes timeline-grow { from { transform:scaleX(0); } to { transform:scaleX(1); } }
+
+.tech-window { direction:ltr; }
+.service-illustration > path:nth-of-type(2n) { stroke:var(--t-primary); }
+.home-hero .display-1 { font-size:clamp(2.6rem,4.7vw,4.3rem); }
+
+.public-site .process-steps > li::after { background:linear-gradient(90deg,var(--brand),var(--brand-line)); }
+.footer-watermark { width:100%; height:auto; }
+
+.phone-kind { position:absolute; bottom:6px; inset-inline:4px; padding:4px; text-align:center; font-size:9px; line-height:1.3; border-radius:6px; color:var(--t-primary); background:var(--surface); }
+
+.visual-footer { content-visibility:auto; contain-intrinsic-size:auto 40rem; }
+.footer-watermark { font-family:"Cormorant Garamond",Georgia,serif; }
+
+/* Reserve the mobile banner before fonts load, preventing a late LCP resize. */
+@media(max-width:1023px) { .banner-hero { min-height:48rem; } }
+
+.visual-ready .card:nth-child(3n+2) { animation-delay:80ms; }
+.visual-ready .card:nth-child(3n+3) { animation-delay:160ms; }
+
+.footer-watermark { font-weight:600; }

diff --git a/client/src/main.tsx b/client/src/main.tsx
@@ -1,17 +1,26 @@
-import { createRoot, hydrateRoot } from "react-dom/client";
-import App from "./App";
-import { loadDict, LOCALE_META, localeFromPath } from "./i18n";
+import { LOCALE_META, localeFromPath } from "./i18n/config";
 import "./index.css";
 import "./styles/visuals.css";
 
 const locale = localeFromPath(window.location.pathname);
+const prerenderLocale = document.documentElement.lang;
 document.documentElement.lang = locale;
 document.documentElement.dir = LOCALE_META[locale].dir;
+const root = document.getElementById("root")!;
 
-// Attach to prerendered public content without replacing it or replaying the hero.
-loadDict(locale).then((dict) => {
-  const root = document.getElementById("root")!;
-  const app = <App locale={locale} dict={dict} />;
-  if (root.hasChildNodes()) hydrateRoot(root, app);
+async function bootstrap() {
+  const [{ createElement }, { hydrateRoot, createRoot }, { default: App }, { loadDict }] = await Promise.all([
+    import("react"), import("react-dom/client"), import("./App"), import("./i18n"),
+  ]);
+  const dict = await loadDict(locale);
+  const app = createElement(App, { locale, dict });
+  if (root.hasChildNodes() && prerenderLocale === locale) hydrateRoot(root, app);
   else createRoot(root).render(app);
-});
+}
+
+// Public HTML already works without JavaScript. Finish its first paint before
+// loading enhancements; empty workspace shells still bootstrap immediately.
+if (!root.hasChildNodes() || document.readyState === "complete") void bootstrap();
+else window.addEventListener("load", () => {
+  window.requestAnimationFrame(() => window.setTimeout(() => void bootstrap(), 0));
+}, { once: true });

diff --git a/client/src/components/visuals/Banner.tsx b/client/src/components/visuals/Banner.tsx
@@ -1,9 +1,7 @@
 import { useLocation } from "wouter";
-const pages: Record<string, string> = { services: "architecture", work: "desk", pricing: "geometry", about: "studio", faq: "light-lines", contact: "city", terms: "workspace", privacy: "workspace", cookies: "workspace" };
-const services: Record<string, string> = { "web-development": "architecture", "web-applications": "servers", "ai-solutions": "circuit", "digital-marketing": "earth", "ui-ux-design": "workspace", maintenance: "servers" };
+import { bannerForPath } from "@/data/banners";
 export function Banner({ name, hero = true }: { name?: string; hero?: boolean }) {
   const [location] = useLocation();
-  const segments = location.split("/").filter(Boolean);
-  const image = name ?? services[segments[1]] ?? pages[segments[0]] ?? "geometry";
-  return <div className="banner-art" aria-hidden="true"><img src={`/images/banners/${image}.webp`} srcSet={`/images/banners/${image}-960.webp 960w, /images/banners/${image}.webp 1920w`} sizes="100vw" width="1920" height="1080" alt="" loading={hero ? "eager" : "lazy"} fetchPriority={hero ? "high" : undefined} /><div className="banner-shade" /></div>;
+  const image = name ?? bannerForPath(location);
+  return <div className="banner-art" aria-hidden="true"><img src={`/images/banners/${image}.webp`} srcSet={`/images/banners/${image}-960.webp 960w, /images/banners/${image}.webp 1920w`} sizes="100vw" width="1920" height="1080" decoding={hero ? "sync" : "async"} alt="" loading={hero ? "eager" : "lazy"} fetchPriority={hero ? "high" : undefined} /><div className="banner-shade" /></div>;
 }

diff --git a/script/prerender.ts b/script/prerender.ts
@@ -49,18 +49,28 @@ async function main() {
 
   const entry = (await import(pathToFileURL(path.join(serverDir, "entry-server.js")).href)) as ServerEntry;
   const template = await fs.readFile(path.join(outDir, "index.html"), "utf8");
+  // Public pages ship their small compressed stylesheet with their HTML: no
+  // render-blocking CSS round trip. Workspace shells retain normal CSS links.
+  let publicTemplate = template;
+  for (const match of template.matchAll(/<link\b[^>]*rel="stylesheet"[^>]*>/g)) {
+    const href = match[0].match(/href="([^"]+)"/)?.[1];
+    if (!href?.startsWith("/") || !href.endsWith(".css")) continue;
+    const css = await fs.readFile(path.join(outDir, href.slice(1)), "utf8");
+    publicTemplate = publicTemplate.replace(match[0], `<style data-stylesheet="${href}">${css}</style>`);
+  }
+
 
   let count = 0;
   for (const locale of entry.LOCALES) {
     for (const pagePath of entry.PUBLIC_PATHS) {
       const page = await entry.render(pagePath, locale);
-      await writeFile(fileFor(pagePath, locale), fillTemplate(template, page));
+      await writeFile(fileFor(pagePath, locale), fillTemplate(publicTemplate, page));
       count += 1;
     }
   }
 
   // 404 page (Cloudflare serves 404.html for unknown paths, with a 404 status).
-  await writeFile("404.html", fillTemplate(template, await entry.render("/__not-found__", "en")));
+  await writeFile("404.html", fillTemplate(publicTemplate, await entry.render("/__not-found__", "en")));
 
   // Admin and client portal: client-rendered, never indexed.
   const appShell = template

diff --git a/client/src/components/visuals/Devices.tsx b/client/src/components/visuals/Devices.tsx
@@ -7,10 +7,11 @@ export function Laptop({ project }: { project: Project }) {
 }
 export function DeviceComposition({ compact = false, project = projects[0] }: { compact?: boolean; project?: Project }) {
   const { t } = useI18n();
+  const phone = compact ? project : projects[1];
   return <div className={`device-composition ${compact ? "device-compact" : ""}`}>
     <div className="device-glow" aria-hidden="true" />
     <Laptop project={project} />
-    <div className="device-phone"><div className="phone-camera" aria-hidden="true"/><img src={projects[1].image.replace(".webp", "-640.webp")} alt={`${projects[1].name} — ${t.common.accessibility.screenshot}`} width="640" height="400" loading="lazy" /></div>
+    <div className="device-phone"><div className="phone-camera" aria-hidden="true"/><img src={phone.image.replace(".webp", "-640.webp")} alt={`${phone.name} — ${t.common.accessibility.screenshot}`} width="640" height={phone.slug === "superfox-roam" ? 347 : 400} loading="lazy" /><span className="phone-kind">{t.common.kinds[phone.kind]}</span></div>
     {!compact && <><p className="device-sample">{t.visuals.sample}</p><div className="floating-ui float-one">{t.visuals.qualified}</div><div className="floating-ui float-two">{t.visuals.invoice}</div><div className="floating-ui float-three">{t.visuals.deploy}</div></>}
   </div>;
 }

diff --git a/client/src/entry-server.tsx b/client/src/entry-server.tsx
@@ -1,3 +1,4 @@
+import { bannerForPath } from "./data/banners";
 import { renderToString } from "react-dom/server";
 import App from "./App";
 import { loadDict, type Locale } from "./i18n";
@@ -9,7 +10,10 @@ import { LOCALE_META, localizedPath } from "./i18n/config";
 export async function render(path: string, locale: Locale) {
   const dict = await loadDict(locale);
   const html = renderToString(<App locale={locale} dict={dict} ssrPath={localizedPath(path, locale)} />);
-  const head = headHtml(metaFor(path, locale, dict));
+  const image = bannerForPath(path);
+  const preload = path === "/" ? "" : `<link rel="preload" as="image" href="/images/banners/${image}.webp" imagesrcset="/images/banners/${image}-960.webp 960w, /images/banners/${image}.webp 1920w" imagesizes="100vw" fetchpriority="high" />`;
+  const fontPreload = ["en", "de", "fr"].includes(locale) ? '<link rel="preload" as="font" type="font/woff2" crossorigin href="/fonts/display-cf5f5ed194.woff2" /><link rel="preload" as="font" type="font/woff2" crossorigin href="/fonts/display-25b406678a.woff2" />' : "";
+  const head = fontPreload + preload + headHtml(metaFor(path, locale, dict));
   return { html, head, lang: locale, dir: LOCALE_META[locale].dir };
 }
 

diff --git a/client/src/components/visuals/useReveal.ts b/client/src/components/visuals/useReveal.ts
@@ -7,12 +7,11 @@ export function useReveal() {
     if (!root || window.matchMedia("(prefers-reduced-motion: reduce)").matches || !("IntersectionObserver" in window)) return;
     const observer = new IntersectionObserver(entries => {
       for (const entry of entries) if (entry.isIntersecting) {
-        entry.target.classList.add("is-revealed"); observer.unobserve(entry.target);
+        entry.target.classList.add("visual-ready"); observer.unobserve(entry.target);
       }
     }, { threshold: .08 });
-    root.querySelectorAll<HTMLElement>(".card, .visual-project, .process-steps").forEach((el,i) => {
-      el.style.setProperty("--reveal-delay", `${i % 3 * 70}ms`); observer.observe(el);
-    });
+    // Observe section boxes, not deep children: preserve off-screen layout containment.
+    root.querySelectorAll<HTMLElement>(":scope > section, :scope > #work").forEach(el => observer.observe(el));
     let frame = 0;
     const moveGlow = () => {
       if (frame) return;

diff --git a/client/src/data/banners.ts b/client/src/data/banners.ts
@@ -1,0 +1,7 @@
+const pages: Record<string, string> = { services: "architecture", work: "desk", pricing: "geometry", about: "studio", faq: "light-lines", contact: "city", terms: "workspace", privacy: "workspace", cookies: "workspace" };
+const services: Record<string, string> = { "web-development": "architecture", "web-applications": "servers", "ai-solutions": "circuit", "digital-marketing": "earth", "ui-ux-design": "workspace", maintenance: "servers" };
+export function bannerForPath(path: string) {
+  const segments = path.split("/").filter(Boolean);
+  return (Object.prototype.hasOwnProperty.call(services, segments[1]) ? services[segments[1]] : undefined)
+    ?? (Object.prototype.hasOwnProperty.call(pages, segments[0]) ? pages[segments[0]] : "geometry");
+}

diff --git a/client/src/components/site/Footer.tsx b/client/src/components/site/Footer.tsx
@@ -25,7 +25,7 @@ export function Footer() {
 
   return (
     <footer className="visual-footer border-t border-[var(--line)] bg-[var(--bg-subtle)]">
-      <div className="footer-watermark" aria-hidden="true">{t.common.brand}</div>
+      <svg className="footer-watermark" viewBox="0 0 1200 240" aria-hidden="true" focusable="false"><text x="600" y="210" textAnchor="middle" fontSize="220" fill="currentColor">{t.common.brand}</text></svg>
       <div className="container-w relative grid gap-10 py-14 md:grid-cols-2 lg:grid-cols-[1.4fr_1fr_1fr_1.2fr]">
         <div>
           <Logo />

diff --git a/client/src/pages/Home.tsx b/client/src/pages/Home.tsx
@@ -22,7 +22,7 @@ function Hero() {
   const { t } = useI18n();
 
   return (
-    <section className="tech-grid overflow-hidden border-b border-[var(--line)]">
+    <section className="home-hero tech-grid overflow-hidden border-b border-[var(--line)]">
       <div className="container-w section-pad relative grid items-center gap-12 lg:min-h-[88vh] lg:grid-cols-[1.1fr_1fr]">
         <div className="reveal">
           <p className="label mb-5">{t.home.hero.eyebrow}</p>

diff --git a/client/src/components/site/Preferences.tsx b/client/src/components/site/Preferences.tsx
@@ -23,6 +23,7 @@ export function Preferences({ compact = false }: { compact?: boolean }) {
       <label className="sr-only" htmlFor={`lang-${compact ? "m" : "d"}`}>{t.common.prefs.language}</label>
       <select
         id={`lang-${compact ? "m" : "d"}`}
+        style={{ fontFamily: "system-ui, sans-serif" }}
         className={selectClass}
         value={locale}
         onChange={(event) => switchLocale(event.target.value as Locale)}
